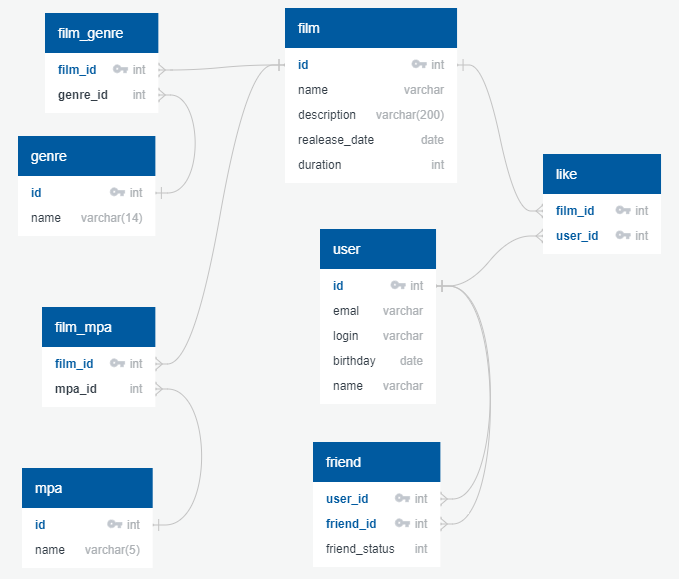
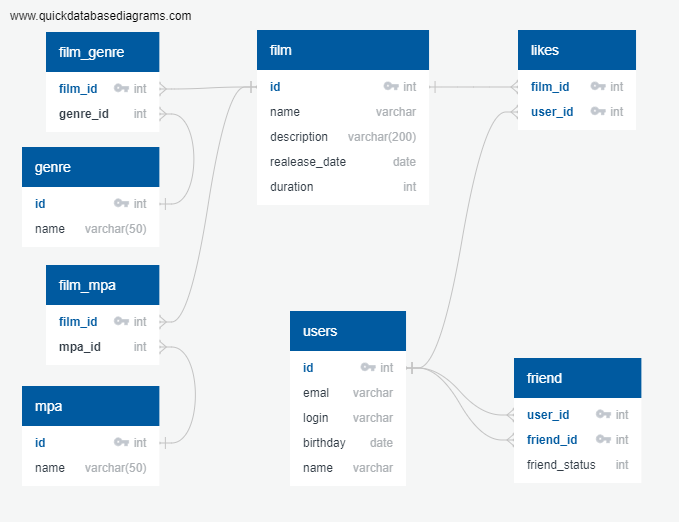
feat: добавляет функционал mpa.

diff --git a/src/main/java/ru/yandex/practicum/filmorate/controller/MpaController.java b/src/main/java/ru/yandex/practicum/filmorate/controller/MpaController.java
@@ -1,0 +1,33 @@
+package ru.yandex.practicum.filmorate.controller;
+
+import lombok.RequiredArgsConstructor;
+import lombok.extern.slf4j.Slf4j;
+import org.springframework.web.bind.annotation.GetMapping;
+import org.springframework.web.bind.annotation.PathVariable;
+import org.springframework.web.bind.annotation.RequestMapping;
+import org.springframework.web.bind.annotation.RestController;
+import ru.yandex.practicum.filmorate.constant.LogMessage;
+import ru.yandex.practicum.filmorate.model.Mpa;
+import ru.yandex.practicum.filmorate.service.MpaService;
+
+import java.util.Collection;
+
+@Slf4j
+@RestController
+@RequestMapping("/mpa")
+@RequiredArgsConstructor
+public class MpaController {
+    private final MpaService service;
+
+    @GetMapping("/{id}")
+    public Mpa getMpa(@PathVariable Integer id) {
+        log.info(LogMessage.GET_REQUEST);
+        return service.getSubModelById(id);
+    }
+
+    @GetMapping
+    public Collection<Mpa> getAllMpa() {
+        log.info(LogMessage.GET_REQUEST);
+        return service.getAllSubModels();
+    }
+}

diff --git a/src/main/java/ru/yandex/practicum/filmorate/service/AbstractSubService.java b/src/main/java/ru/yandex/practicum/filmorate/service/AbstractSubService.java
@@ -1,0 +1,34 @@
+package ru.yandex.practicum.filmorate.service;
+
+import lombok.extern.slf4j.Slf4j;
+import ru.yandex.practicum.filmorate.constant.ExpMessage;
+import ru.yandex.practicum.filmorate.exception.ObjectNotFoundException;
+import ru.yandex.practicum.filmorate.storage.SubStorage;
+
+import java.util.Collection;
+
+@Slf4j
+public abstract class AbstractSubService<T, K> {
+    protected final SubStorage<T, K> subStorage;
+
+    protected AbstractSubService(SubStorage<T, K> subStorage) {
+        this.subStorage = subStorage;
+    }
+
+    public T getSubModelById(K id) {
+        T res = subStorage.findOne(id);
+        checkSubModel(res);
+        return res;
+    }
+
+    public Collection<T> getAllSubModels() {
+        return subStorage.findAll();
+    }
+
+    private void checkSubModel(T model) {
+        if (model == null) {
+            log.warn(ExpMessage.NOT_FOUND_MODEL);
+            throw new ObjectNotFoundException(String.format(ExpMessage.NOT_FOUND_MODEL));
+        }
+    }
+}

diff --git a/src/main/java/ru/yandex/practicum/filmorate/service/MpaService.java b/src/main/java/ru/yandex/practicum/filmorate/service/MpaService.java
@@ -1,0 +1,14 @@
+package ru.yandex.practicum.filmorate.service;
+
+import lombok.extern.slf4j.Slf4j;
+import org.springframework.stereotype.Service;
+import ru.yandex.practicum.filmorate.model.Mpa;
+import ru.yandex.practicum.filmorate.storage.SubStorage;
+
+@Slf4j
+@Service
+public class MpaService extends AbstractSubService<Mpa, Integer> {
+    protected MpaService(SubStorage<Mpa, Integer> subStorage) {
+        super(subStorage);
+    }
+}
